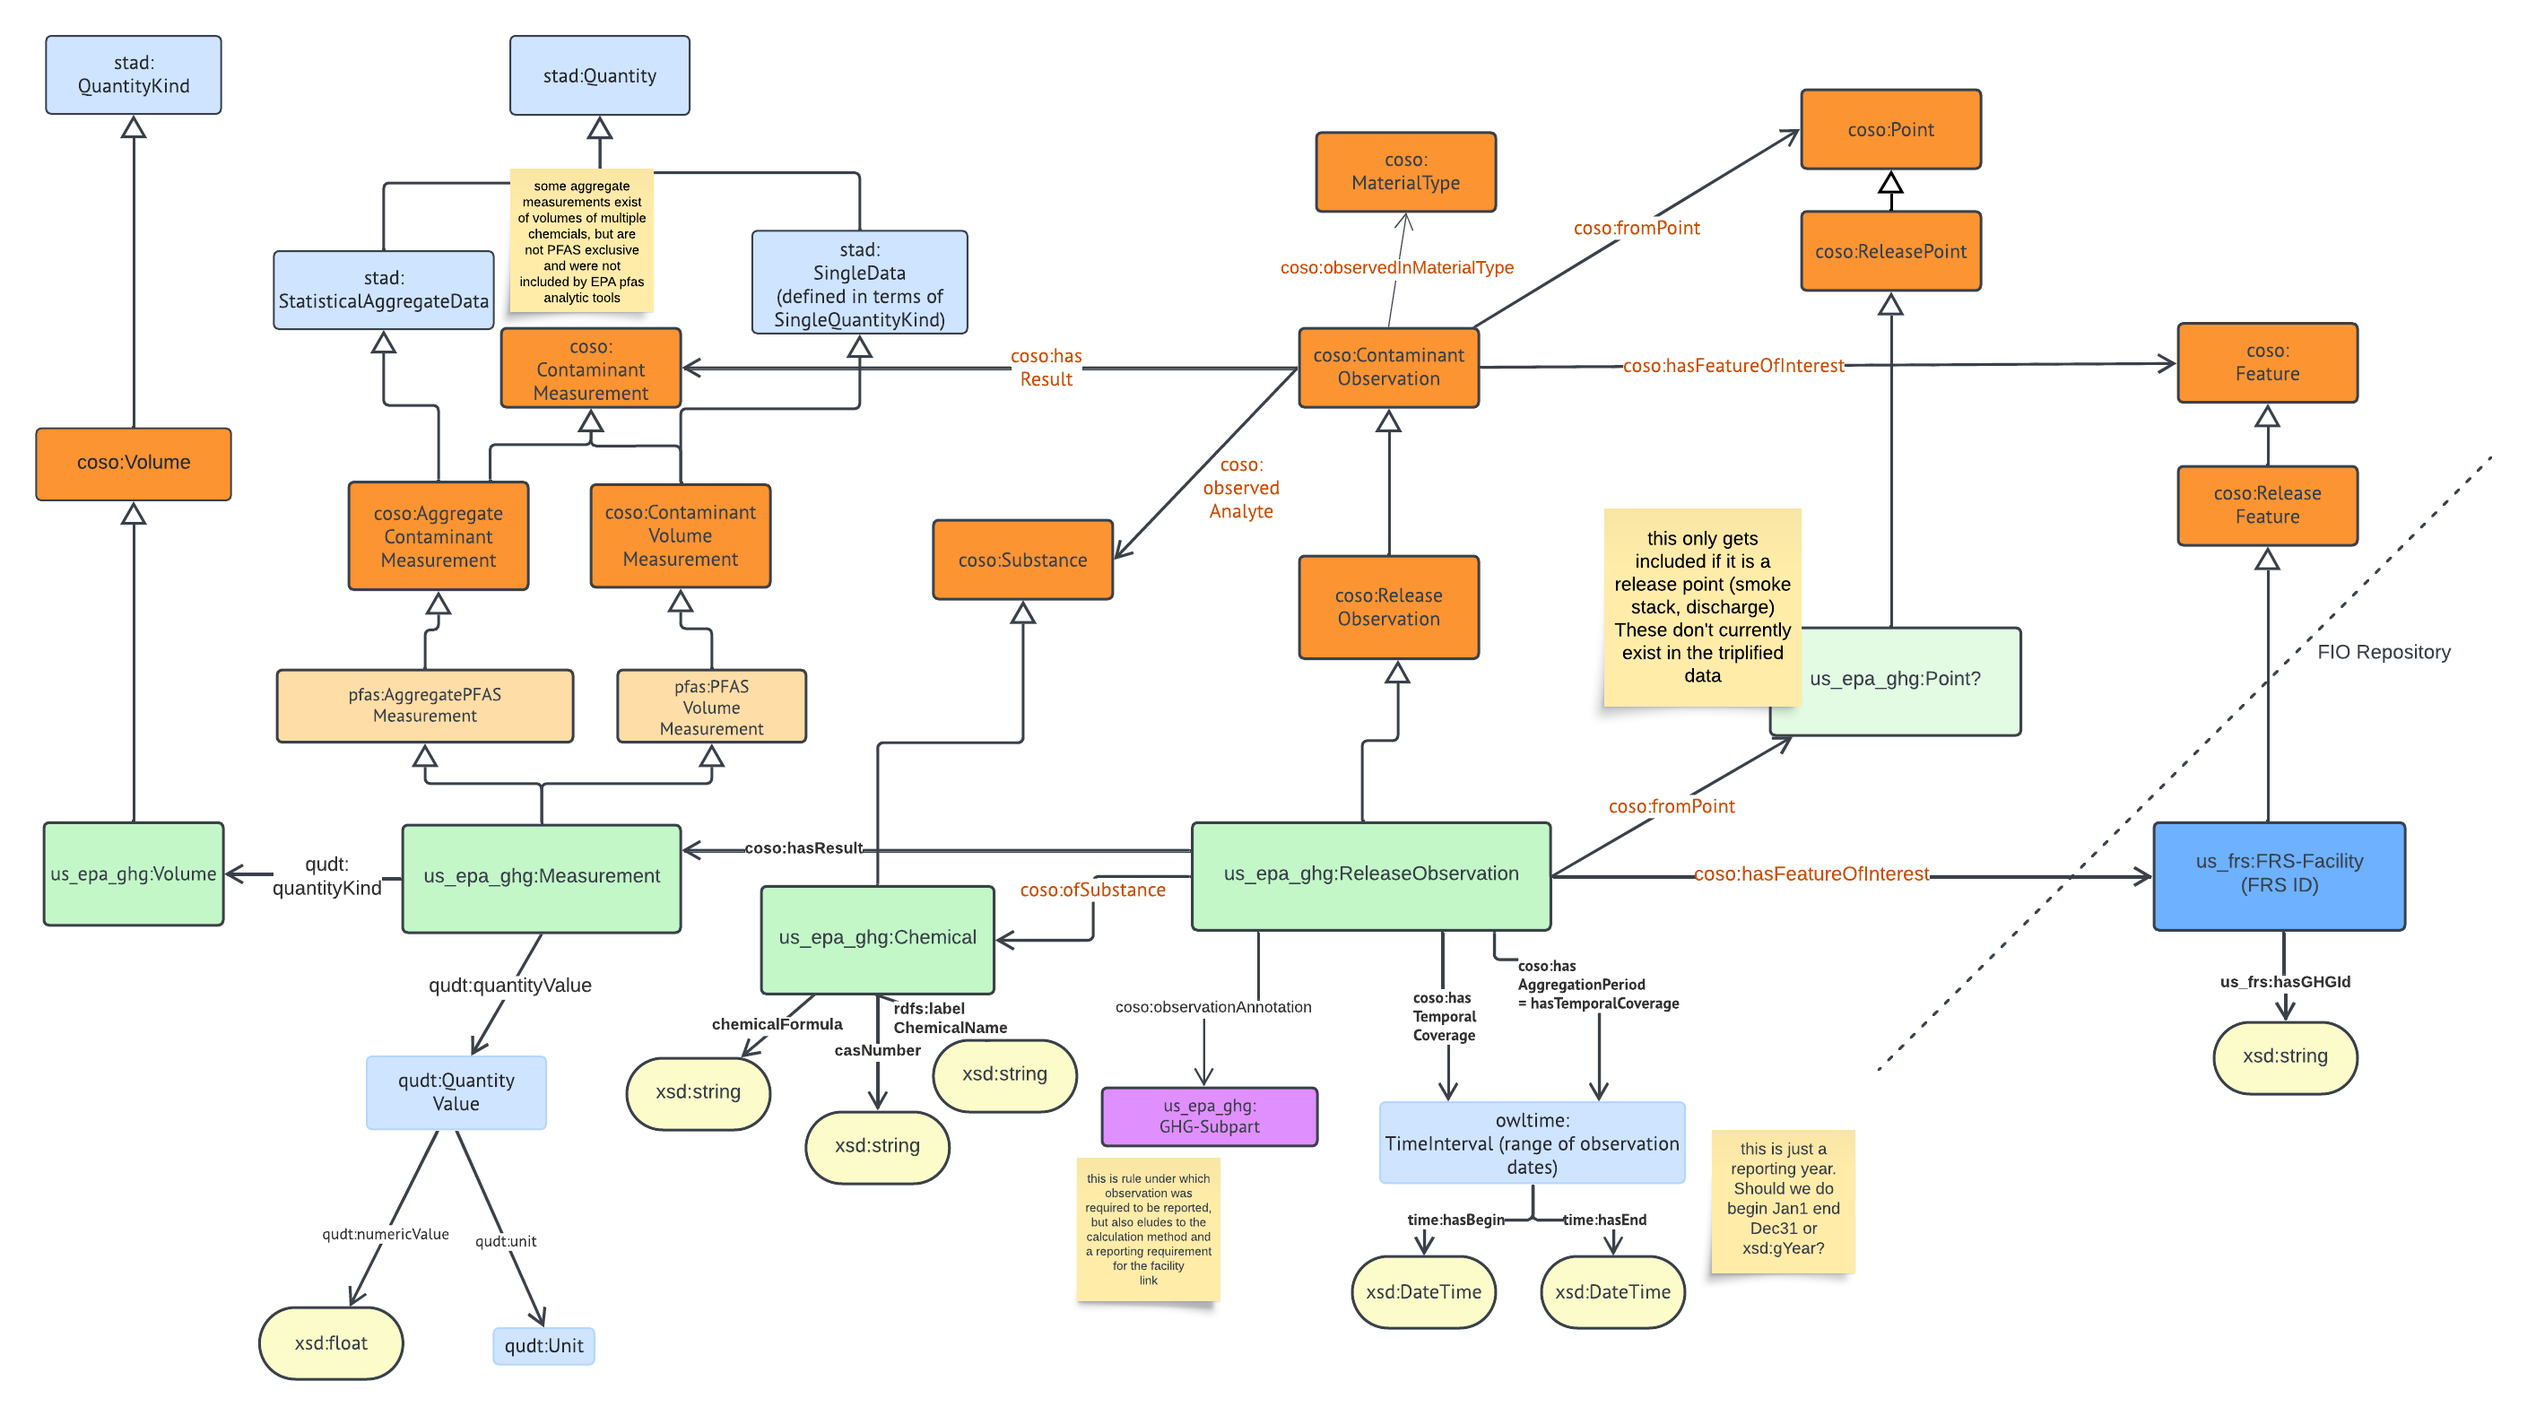
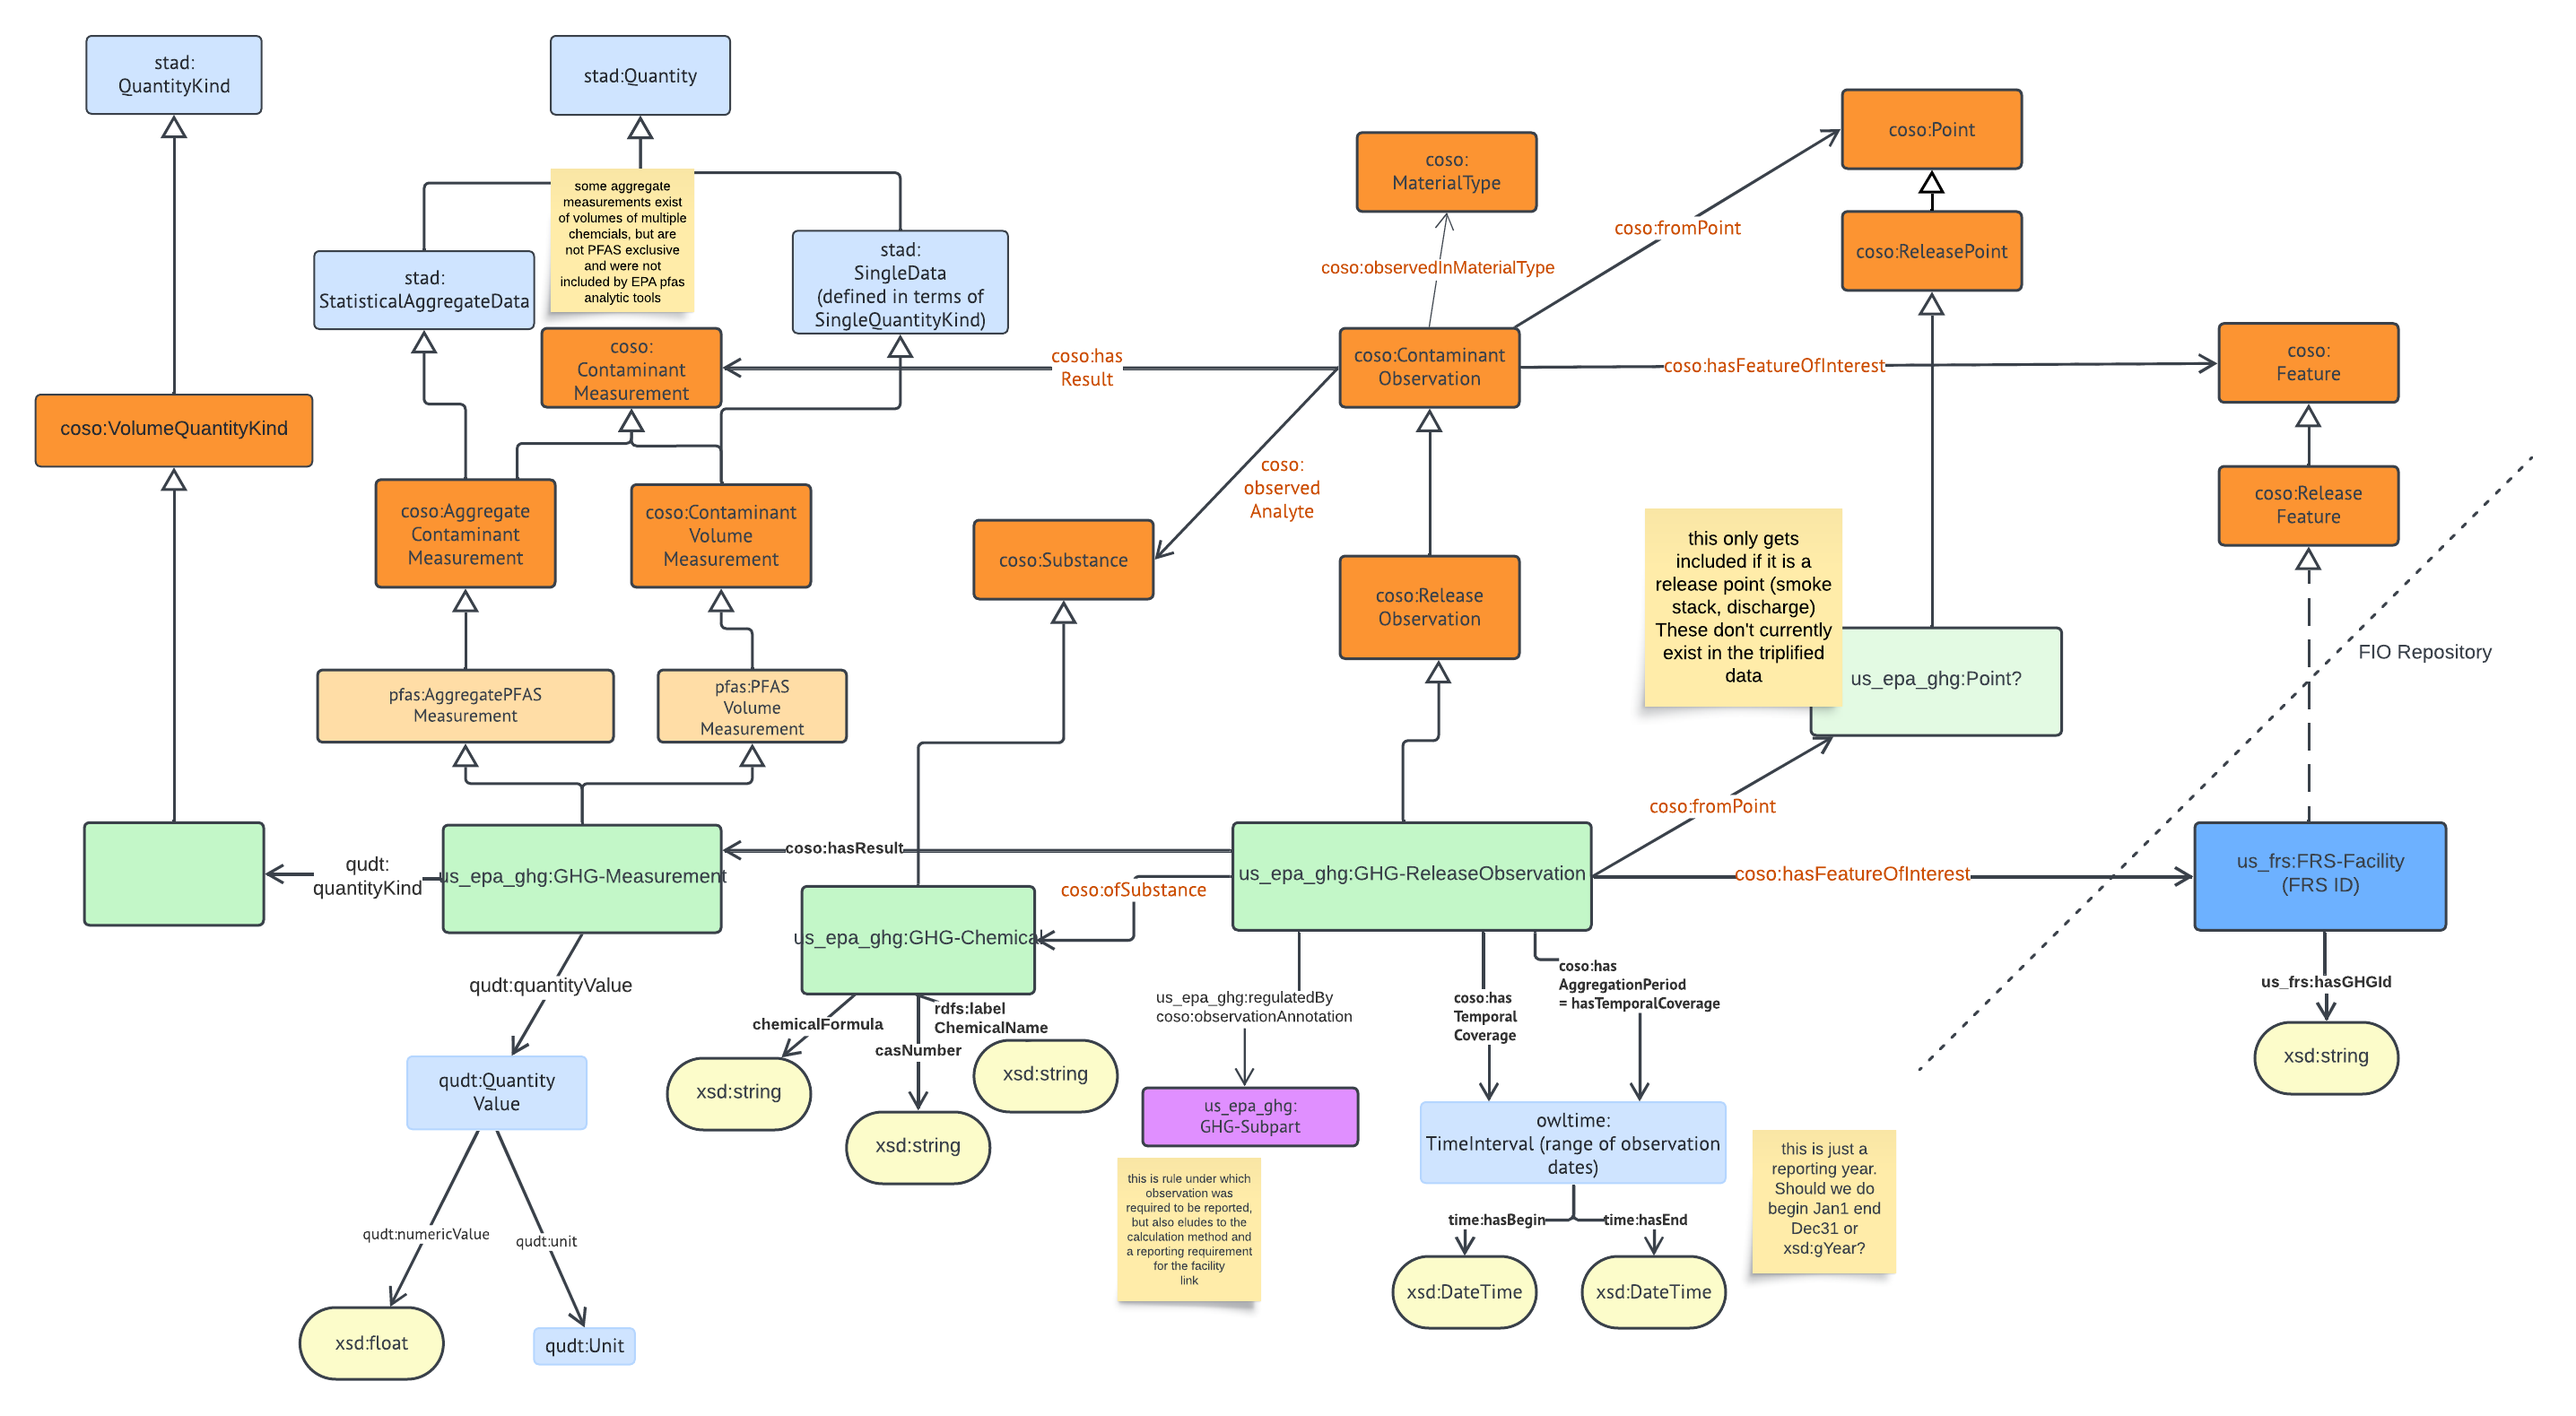
update GHG data to match new coso and pfas schema

diff --git a/datasets/federal/us-ghg/releases-ghg.py b/datasets/federal/us-ghg/releases-ghg.py
@@ -146,6 +146,9 @@ def get_iris(release):
 
 def triplify(df):
     kg = Initial_KG()
+    # add a second graph for the facility updates. 
+    facility_kg = Initial_KG()
+
     for idx, row in df.iterrows():
         # get attributes
         release = get_attributes(row)
@@ -154,25 +157,27 @@ def triplify(df):
         #print(extra_iris)
 
         #observation
-        kg.add((extra_iris['ReleaseObservation'], RDF.type, us_epa_ghg['ReleaseObservation']))
+        kg.add((extra_iris['ReleaseObservation'], RDF.type, us_epa_ghg['GHG-ReleaseObservation']))
         kg.add((extra_iris['ReleaseObservation'], coso['hasTemporalCoverage'],
                 extra_iris['TimeInterval']))  #TODO this needs beginning and end attributes
-        kg.add((extra_iris['ReleaseObservation'], us_epa_ghg['GHG-Subpart'], Literal(release['GHG_subpart'],
+        kg.add((extra_iris['ReleaseObservation'], us_epa_ghg['regulatedBy'], Literal(release['GHG_subpart'],
                                                                                      datatype=XSD.string)))  #TODO this should be done as a controlled vocabulary
 
         #facility
         if 'FRS_Facility' in extra_iris.keys():
             kg.add((extra_iris['ReleaseObservation'], coso['hasFeatureOfInterest'], extra_iris['FRS_Facility']))
             kg.add((extra_iris['FRS_Facility'], RDF.type, us_frs['FRS-Facility']))
-            kg.add((extra_iris['FRS_Facility'], us_frs['hasGHGId'], Literal(release['GHG_id'], datatype=XSD.string))) #TODO this should move to a different graph to go in FIO repo
+            facility_kg.add((extra_iris['FRS_Facility'], us_frs['hasGHGId'], Literal(release['GHG_id'], datatype=XSD.string))) #TODO this should move to a different graph to go in FIO repo
         elif 'GHG_Facility' in extra_iris.keys(): #this shouldn't run as long as all of the facilities missing FRS ID have been caught
             kg.add((extra_iris['ReleaseObservation'], coso['hasFeatureOfInterest'], extra_iris['GHG_Facility']))
-            kg.add((extra_iris['GHG_Facility'], us_frs['hasGHGId'], Literal(release['GHG_id'], datatype=XSD.string)))
+            facility_kg.add((extra_iris['GHG_Facility'], us_frs['hasGHGId'], Literal(release['GHG_id'], datatype=XSD.string)))
             #TODO GHG facilities should get geometry
+
+        #TODO release point
 
         #substance
         kg.add((extra_iris['ReleaseObservation'], coso['ofSubstance'], extra_iris['Chemical']))
-        kg.add((extra_iris['Chemical'], RDF.type, us_epa_ghg['Chemical']))
+        kg.add((extra_iris['Chemical'], RDF.type, us_epa_ghg['GHG-Chemical']))
         if 'ChemicalFormula' in release.keys():
             kg.add((extra_iris['Chemical'], us_epa_ghg['chemicalFormula'],
                     Literal(release['ChemicalFormula'], datatype=XSD.string)))
@@ -184,11 +189,13 @@ def triplify(df):
         kg.add((extra_iris['Measurement'], qudt['quantityKind'], extra_iris['Amount'])) #this needs to change to quantityValue and quantityKind needs to be instantiated separately
         kg.add((extra_iris['Measurement'], RDF.type, us_epa_ghg['Measurement']))
 
-        #amount
-
-        kg.add((extra_iris['Amount'], RDF.type, us_epa_ghg['Amount']))
+        #amount (quantity value)
+        kg.add((extra_iris['Amount'], RDF.type, qudt['QuantityValue']))
         kg.add((extra_iris['Amount'], qudt['numericValue'], Literal(release['Amount'], datatype=XSD.float)))
         kg.add((extra_iris['Amount'], qudt['unit'], unit['TON_Metric']))
+
+        #TODO quantity kind / coso:ContaminationProperty
+
     return kg
 
 
